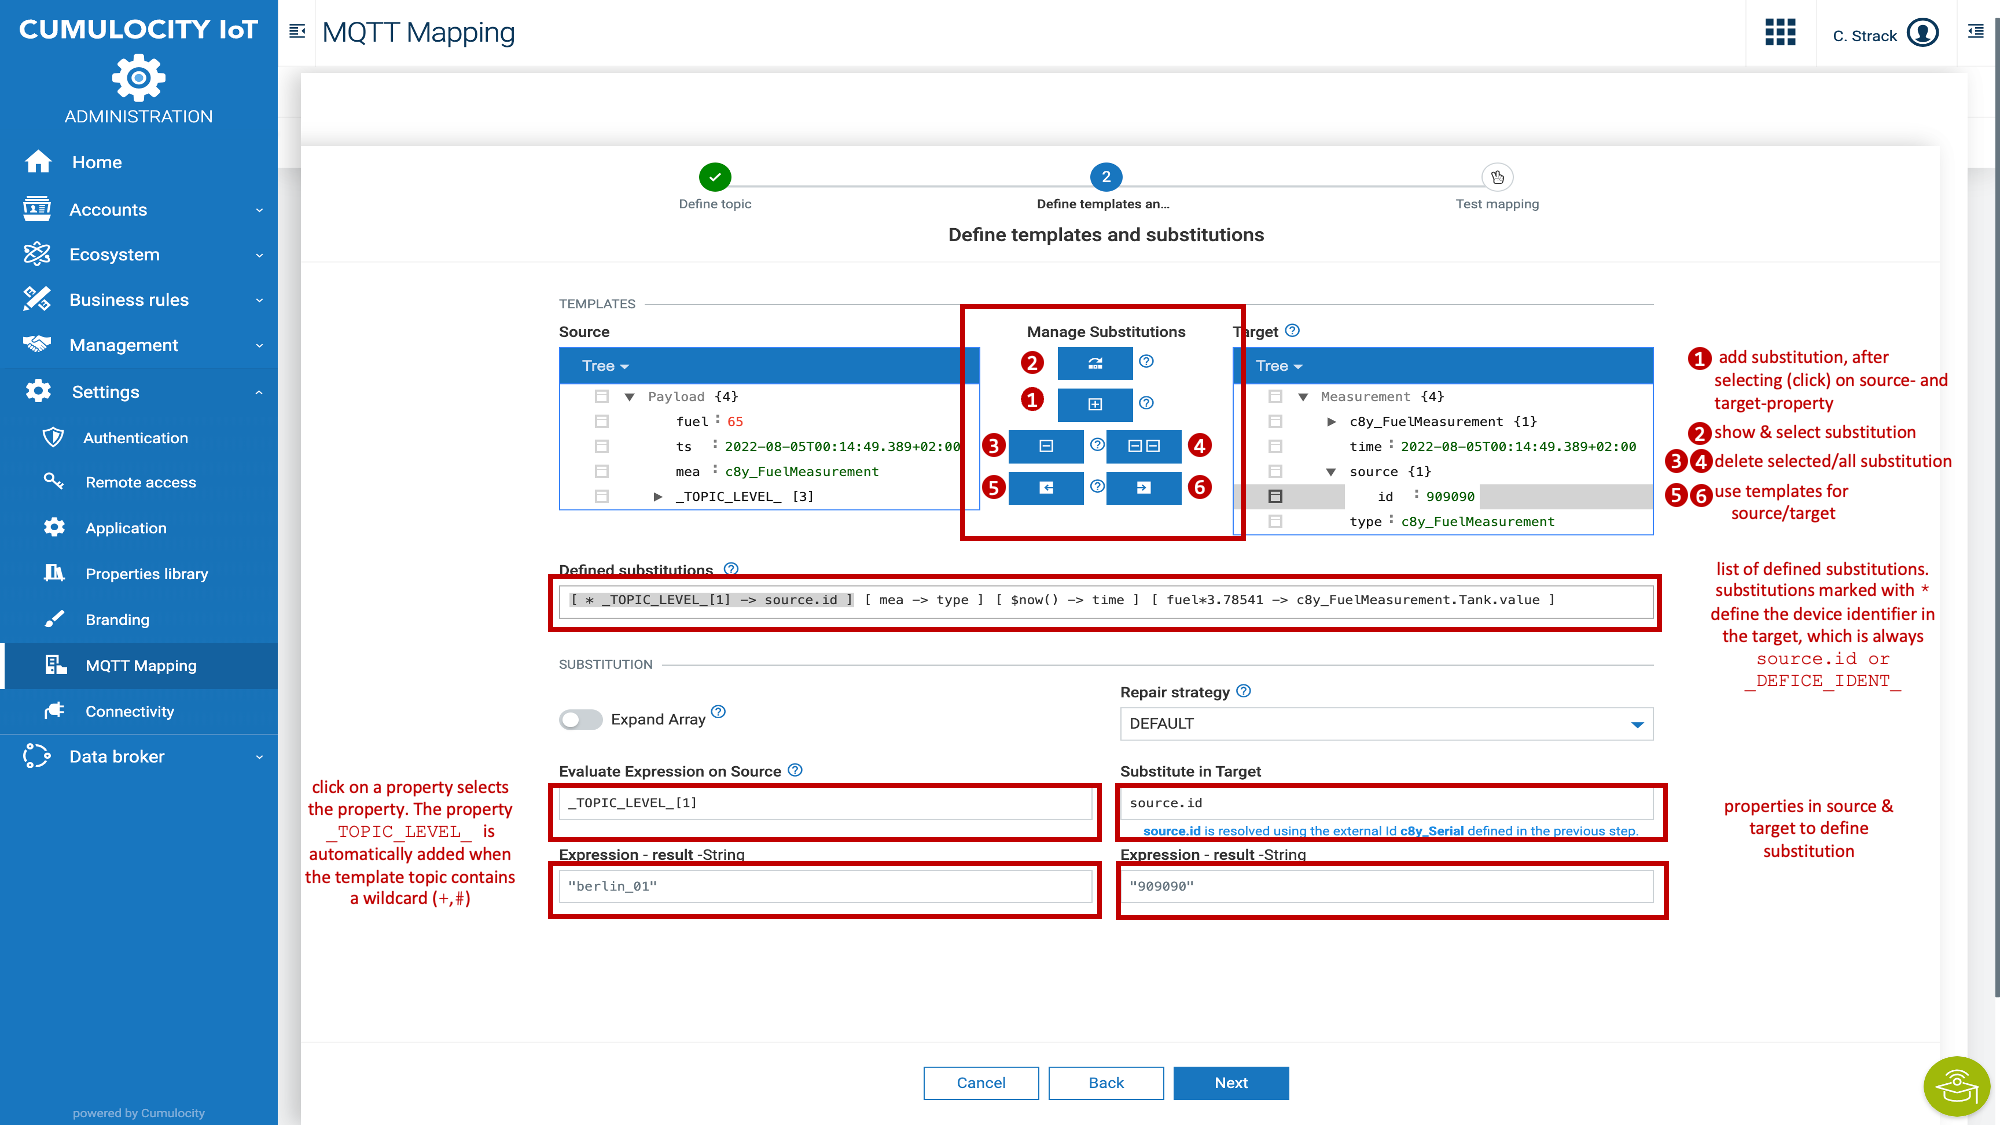
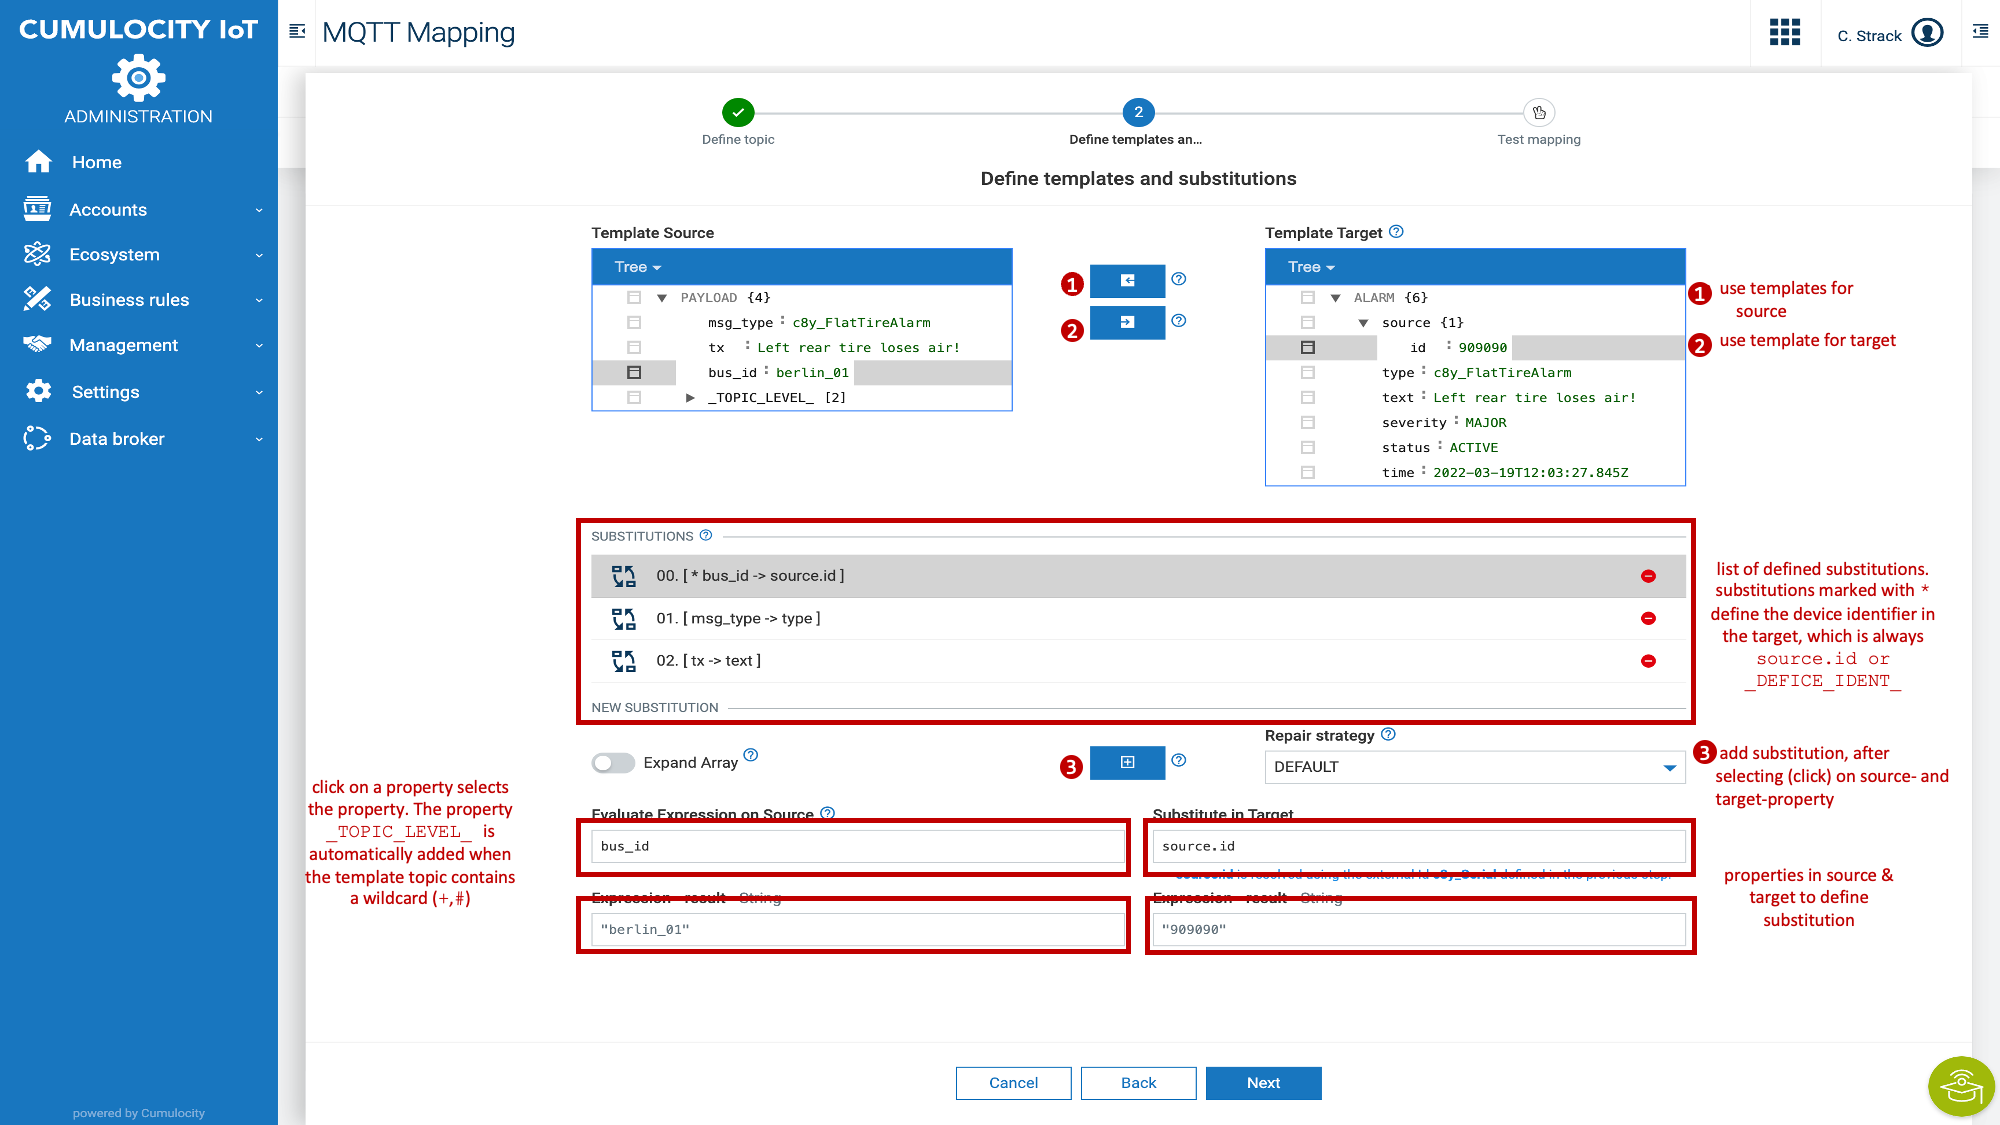
updated docu

diff --git a/mqtt-mapping-ui/mqtt-mapping/src/mqtt-mapping/stepper/mapping-stepper.component.html b/mqtt-mapping-ui/mqtt-mapping/src/mqtt-mapping/stepper/mapping-stepper.component.html
@@ -274,7 +274,7 @@
                 </div> -->
                 <div class="col-lg-4 col-lg-offset-1">
                   <div class="form-group" *ngIf="stepperConfiguration.showEditorSource">
-                    <label translate>Source</label>
+                    <label translate>Template Source</label>
                     <mapping-json-editor [options]="editorOptionsSource"
                       (onPathChanged)="onSelectedSourcePathChanged($event)" [data]="templateSource" #editorSource
                       id="editorSource"></mapping-json-editor>
@@ -428,7 +428,7 @@
                 <div class="col-lg-4 vcenter">
                   <div class="form-group">
                     <div class="input-group">
-                      <label>Target</label>
+                      <label>Template Target</label>
                       <span class="hidden-xs hidden-sm m-l-4">
                         <ng-template #popTemplateTarget>The template contains the dummy field "_DEVICE_IDENT_" to
                           map

diff --git a/README.md b/README.md
@@ -152,7 +152,7 @@ and afterwards "Administration".
 <p align="center">
 <img src="resources/image/Generic_MQTT_DuplicateApp.png" style="width: 40%;" />
 </p>
-<br/>.
+<br/>
 
 Now select the cloned Administration App and go to the "Plugin" Tab. Click on "Install Plugin" and select "MQTT configuration plugin"
 
@@ -389,7 +389,7 @@ In the sample below, e.g. a warning is shown since the required property ```c8y_
 
 
 <p align="center">
-<img src="resources/image/Generic_MQTT_SchemaValidation.png"  style="width: 70%;" />
+<img src="resources/image/Generic_MQTT_MappingTemplate_SchemaValidation_annnotated.png"  style="width: 70%;" />
 </p>
 <br/>
 
@@ -479,7 +479,7 @@ In order to use a previously snooped payload click the button
 
 
 <p align="center">
-<img src="resources/image/Generic_MQTT_UseSnoopedPayload.png"  style="width: 70%;" />
+<img src="resources/image/Generic_MQTT_MappingTemplate_Snooping_annnotated.png"  style="width: 70%;" />
 </p>
 <br/>
 
@@ -505,7 +505,7 @@ To allow updating an activated mapping it has to be deactivated in the list of a
 When you choose the mapping type  ```PROCESSOR_EXTENSION``` the wizard for defining your mapping changes. On the second step you are not be able to change the source format of the incoming message and define substitutions. This is done by the processor extension. Instead you are able to choose a processor extension by selecting the respective message in the dropdown:
 
 <p align="center">
-<img src="resources/image/Generic_MQTT_ProtobufMessage_annotated.png"  style="width: 70%;" />
+<img src="resources/image/Generic_MQTT_MappingTemplate_ProtobufMessage_annnotated.png"  style="width: 70%;" />
 </p>
 <br/>
 
